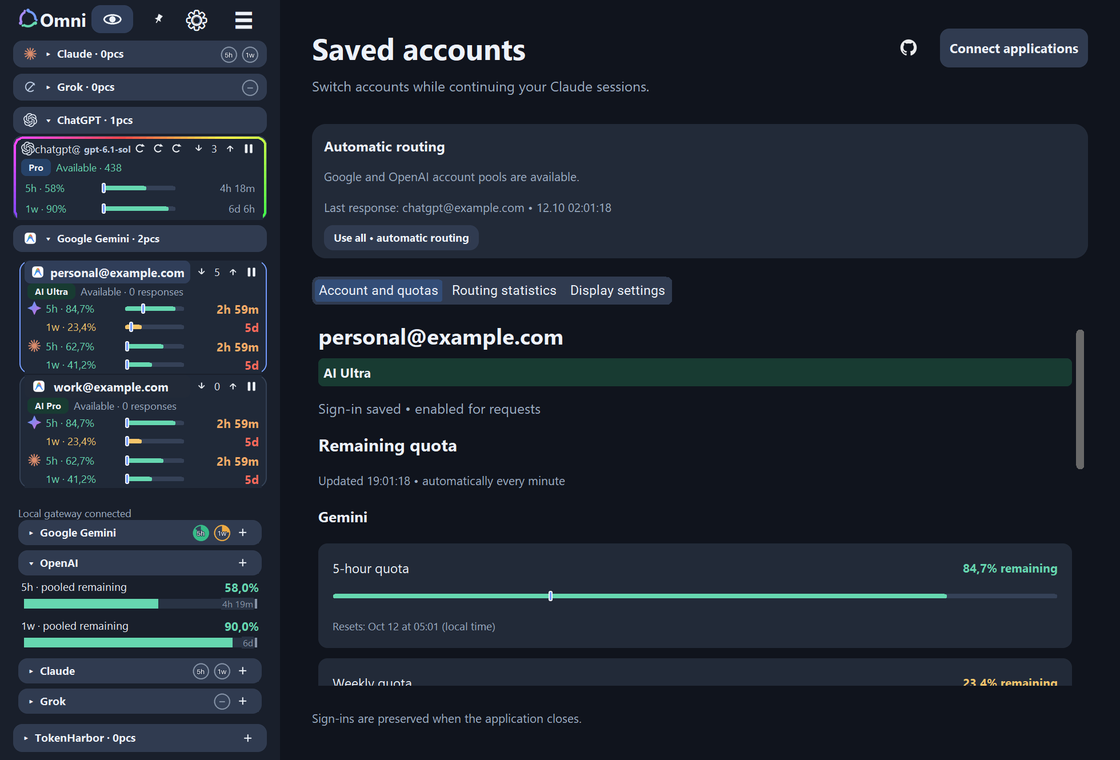
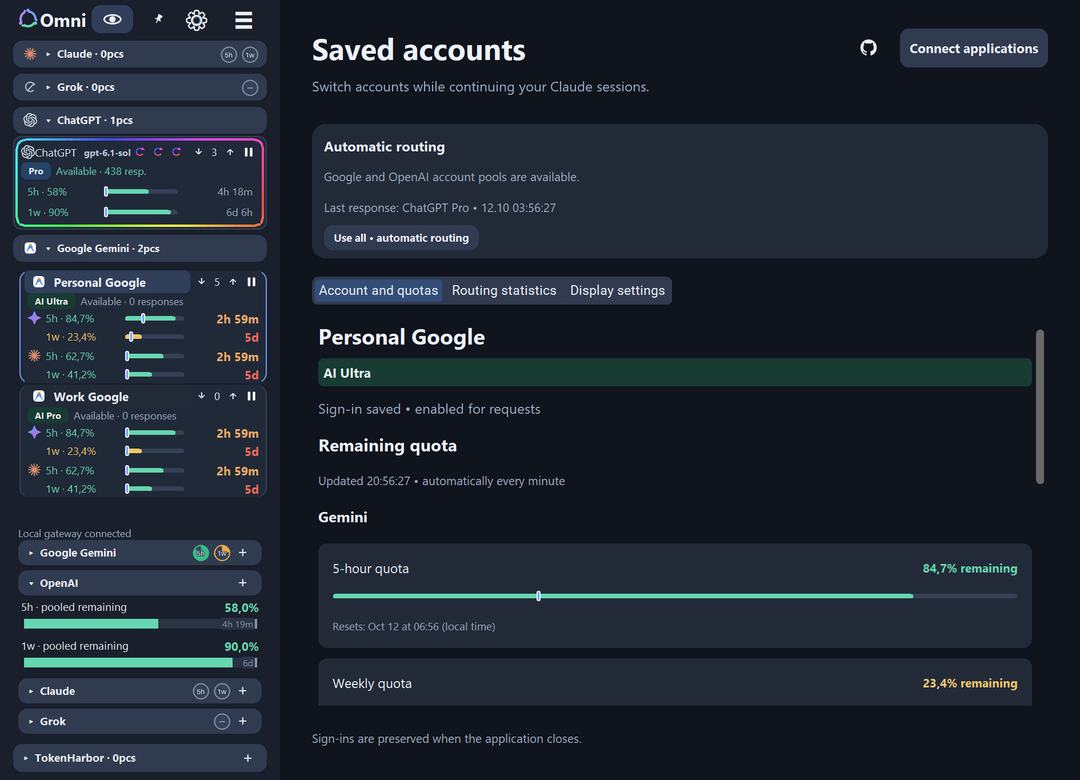
Release Omni 1.4.8 with all rainbow resets and refreshed documentation

diff --git a/app.py b/app.py
@@ -794,7 +794,7 @@ class App(ProviderSupport, ClaudeSupport, ctk.CTk):
             if index < count:
                 button.configure(text='', state=row['reset_button'].cget('state'),
                                  command=lambda account=item: self.confirm_chatgpt_reset(account),
-                                 image=self.playback_icons['reset-rainbow'][0] if options and not item.get('disabled') else self.playback_icons['reset'])
+                                 image=self.playback_icons['reset-rainbow'][0])
                 if not button.winfo_manager():
                     button.pack(side='left')
             else:
@@ -2457,7 +2457,7 @@ class App(ProviderSupport, ClaudeSupport, ctk.CTk):
             self.update_active_border(widgets, is_active)
             reset_icon = self.playback_icons['reset-rainbow'][int(time.monotonic()*2) % 12]
             for button in widgets['reset_buttons']:
-                if button.winfo_manager() and button.cget('state') != 'disabled':
+                if button.winfo_manager():
                     button.configure(image=reset_icon)
         self.claude_panel.animate()
         self.grok_panel.animate()

diff --git a/tests/test_quota_ui.py b/tests/test_quota_ui.py
@@ -39,7 +39,15 @@ class QuotaUITests(unittest.TestCase):
                 self.assertIn('50,000', app.capacity_result.cget('text'))
                 item['disabled'] = True
                 app.set_chatgpt_accounts([item])
-                self.assertTrue(all(b.cget('image') is app.playback_icons['reset'] for b in row['reset_buttons']))
+                self.assertTrue(all(b.cget('image') in app.playback_icons['reset-rainbow'] for b in row['reset_buttons']))
+                self.assertTrue(all(b.cget('state') == 'disabled' for b in row['reset_buttons']))
+                item['disabled'] = False
+                item['quota']['reset_options'] = []
+                item['quota']['reset_applicable'] = 0
+                app.set_chatgpt_accounts([item])
+                app.animate_active_borders()
+                self.assertTrue(all(b.cget('image') in app.playback_icons['reset-rainbow'] for b in row['reset_buttons']))
+                self.assertTrue(all(b.cget('state') == 'disabled' for b in row['reset_buttons']))
             finally:
                 app.closed = True
                 app.destroy()

diff --git a/installer.py b/installer.py
@@ -90,7 +90,7 @@ def install(payload, root, shortcuts=True, automatic=False):
         changed = True
     if changed:
         atomic_write(config_path, yaml.safe_dump(config, sort_keys=False).encode())
-    atomic_write(manager / 'installation.json', json.dumps({'version': '1.4.7'}).encode())
+    atomic_write(manager / 'installation.json', json.dumps({'version': '1.4.8'}).encode())
     if shortcuts:
         create_shortcut(manager / 'GeminiAccounts.exe')
     return manager / 'GeminiAccounts.exe'

diff --git a/runtime.py b/runtime.py
@@ -19,7 +19,7 @@ import bcrypt
 import yaml
 from backend import AccountError, atomic_write, dpapi
 
-VERSION = '1.4.7'
+VERSION = '1.4.8'
 UPSTREAM_VERSION = '8.0.16'
 ARCHIVES = {
[1 lines of base64/hex data omitted]

diff --git a/README.md b/README.md
@@ -17,9 +17,19 @@ Omni manages **Google Antigravity / Gemini, ChatGPT, Claude, Grok and TokenHarbo
 
 **Windows desktop** · **Windows / macOS / Linux terminal** · **English / Russian interface** · **Dark / light themes**
 
-<p align="center"><img src="docs/omni-dashboard.png" width="1000" alt="Omni dashboard with demo accounts, subscription badges, priorities, quota limits and account details"></p>
+<p align="center"><img src="docs/omni-dashboard.png" width="900" alt="Omni dashboard with demo accounts, subscription badges, priorities, quota limits and account details"></p>
 
-*Screenshot uses demo accounts and sample quotas. No personal credentials are shown.*
+*Screenshots use demo accounts, sample quotas and synthetic calculator measurements. No personal credentials or actual token-capacity claims are shown.*
+
+## Omni 1.4.8 highlights
+
+- **Rainbow reset icons for every saved credit**, including credits that OpenAI does not currently allow you to redeem. Hover explains availability; disabled buttons remain protected from accidental redemption.
+- **Token capacity calculator** in Routing statistics: persistent estimates by provider, subscription, model and 5h / 1w window, with a percentage input and measurement counts.
+- **Complete active-account borders** that stay inside the card and remain visible beneath quota rows.
+- **Stable account imports** that keep loaded quotas and subscription badges, with compact cards while new data loads.
+- **Available ChatGPT accounts without a reported 5h window go first** until an actual provider refusal, pause or quota reserve excludes them.
+
+<p align="center"><img src="docs/omni-token-calculator.png" width="900" alt="Token capacity calculator with synthetic per-model 5h and weekly measurements"></p>
 
 Omni was previously named **Gemini Accounts**. The repository retains its history and releases, and legacy executable names and data folders remain compatible. For installations up to 1.4.4, download the current installer once to switch to the renamed release feed.
 
@@ -71,6 +81,8 @@ Before any changes, the app lists affected files and asks for consent. Projects,
 | Privacy | The open/closed eye beside Omni hides account names across cards, details and history using stable numbered aliases. Double-click a hidden name to set a private alias without exposing the real identity. |
 | Settings | Click the **gear beside Omni** to open service visibility, **English / Russian** and **dark / light theme** settings, including from compact mode. Changes persist without restarting. |
 | Window | Remember the last screen position. The drawn pin beside the settings gear keeps the window above other applications; both settings persist. |
+| Usage resets | One animated rainbow icon per saved credit. Provider permission determines whether each button can be used; hover shows availability and expiry. |
+| Token calculator | Estimate tokens for a chosen percentage of 5h / 1w capacity, separately by provider, subscription and model. Measurements persist across restarts; results include sample counts. |
 | Reset forecasts | Expanded Google and OpenAI 5h / 1w strips show reset markers and countdowns on the pooled quota bar. |
 | Refreshes | Existing cards, bars and controls update in place. Unchanged values skip redraws, and priority changes reuse cards. |
 | Releases | The **GitHub icon in the expanded panel** opens the latest release. Windows can download and verify updates while waiting for active requests to finish. |
@@ -92,7 +104,7 @@ The **token capacity calculator** in Routing statistics learns from completed re
 
 When OpenAI confirms an account is available but does not report a five-hour window, Omni uses it before accounts with timed windows. Actual provider failures, cooldowns, pauses and configured quota reserves still control eligibility. Missing windows are labelled explicitly rather than shown as invented percentages. Importing an account preserves existing cards, loaded quotas and subscription badges.
 
-ChatGPT cards show one drawn reset button per available **usage-reset credit**, in the same header row as priority and pause. Zero credits leave no label or button. Hover reveals availability and expiry. Confirmation and a fresh availability check are required. The provider chooses the credit consumed; Omni does not automatically repeat a timed-out reset.
+ChatGPT cards show one drawn reset button per available **usage-reset credit**, in the same header row as priority and pause. Every saved credit has an animated rainbow icon, even when it cannot currently be redeemed. Zero credits leave no label or button. Hover reveals availability and expiry. OpenAI reports the saved count and the currently applicable count separately; a credit can be unexpired and plan-supported while its button remains disabled because the applicable count is zero. Confirmation and a fresh availability check are required. The provider chooses the credit consumed; Omni does not automatically repeat a timed-out reset.
 
 Quota exhaustion is shown as a quota status. Verification, invalid credentials, access restrictions and provider errors remain distinct, and unfamiliar status messages stay visible. Active borders clear on idle or quota wait; recent models remain visible for one minute. Desktop countdowns update every 15 seconds.
 
